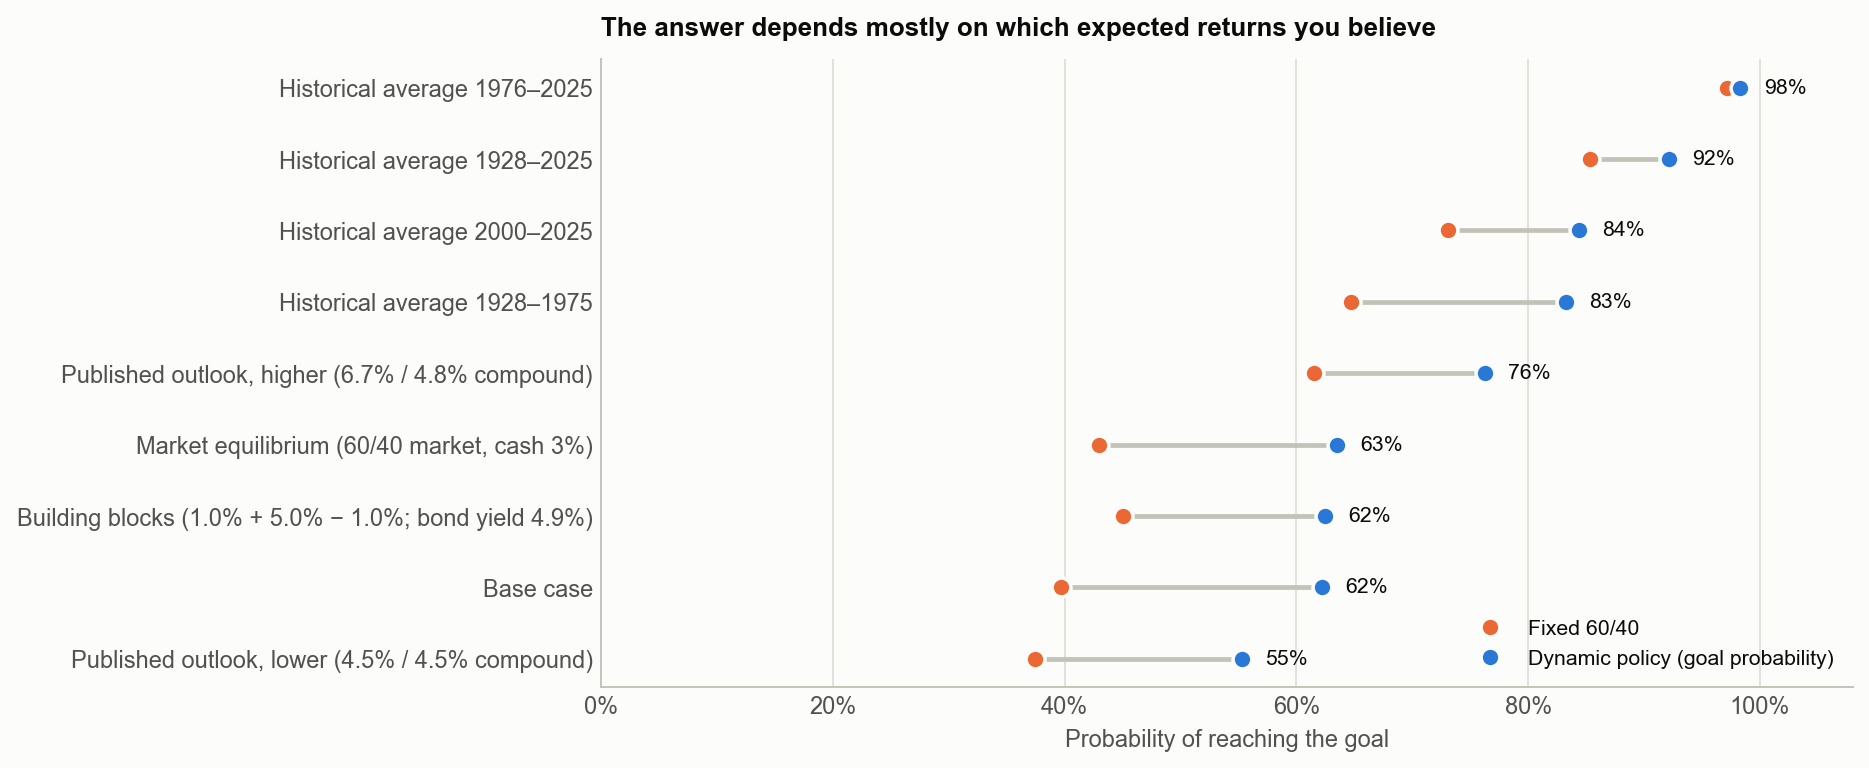
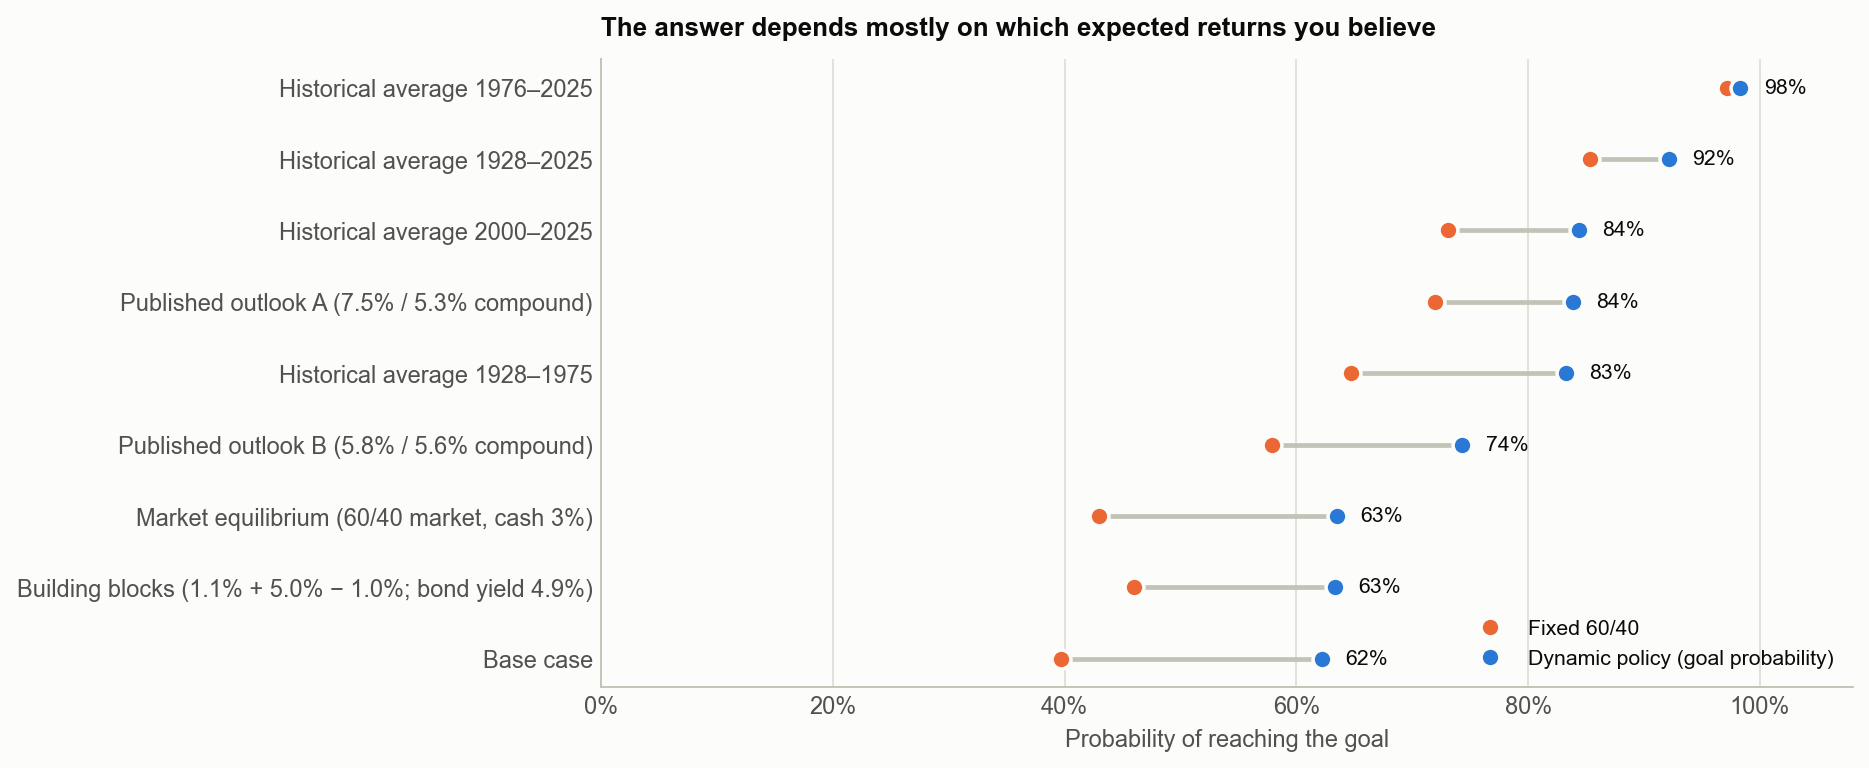
Update published-outlook and building-block inputs to current sources
Checked the three sourced assumption sets against the publishers' own
pages (read 2026-11-10) and re-ran the assumptions section.

- Published outlook A: J.P. Morgan 2027 LTCMA, US large cap 7.5%
  (was 6.7% from the previous edition). The US aggregate bond figure
  is behind a login, so the bond input is the public page's global
  aggregate figure, 5.3%.
- Published outlook B: Vanguard Capital Markets Model, 30 Sep 2026
  run, midpoints of the 10-year ranges: US stocks 5.8%, US aggregate
  bonds 5.6% (was 4.5% / 4.5%, with the bond figure a placeholder).
- Building blocks: S&P 500 dividend yield 1.1% (was 1.0%); 10-year
  Treasury yield 4.9% confirmed.

The range of success probabilities across return views moves from
55-98% to 62-98%; the base case is now the most cautious view.

diff --git a/run.py b/run.py
@@ -264,11 +264,17 @@ def assumption_sets() -> list[market.Assumptions]:
         market.historical_assumptions(history, 1928, 1975),
         market.historical_assumptions(history, 1976, 2025),
         market.historical_assumptions(history, 2000, 2025),
-        market.building_block_assumptions(0.010, 0.050, -0.010, 0.049,
-                                          label="Building blocks (1.0% + 5.0% − 1.0%; bond yield 4.9%)"),
+        # Dividend yield 1.08% (S&P 500, 10 Nov 2026) and 10-year Treasury yield 4.84–4.98%
+        # (2–10 Nov 2026) are observed; earnings growth and valuation change are judgment inputs.
+        market.building_block_assumptions(0.011, 0.050, -0.010, 0.049,
+                                          label="Building blocks (1.1% + 5.0% − 1.0%; bond yield 4.9%)"),
         market.equilibrium_assumptions(label="Market equilibrium (60/40 market, cash 3%)"),
-        market.compound_forecast_assumptions(0.067, 0.048, label="Published outlook, higher (6.7% / 4.8% compound)"),
-        market.compound_forecast_assumptions(0.045, 0.045, label="Published outlook, lower (4.5% / 4.5% compound)"),
+        # J.P. Morgan 2027 Long-Term Capital Market Assumptions (data as of Sep 2026): U.S. large cap
+        # 7.5%; the only bond figure on the public page is global aggregate, 5.3%.
+        market.compound_forecast_assumptions(0.075, 0.053, label="Published outlook A (7.5% / 5.3% compound)"),
+        # Vanguard Capital Markets Model, 30 Sep 2026 run, 10-year ranges: U.S. equities 4.8–6.8%,
+        # U.S. aggregate bonds 5.1–6.1%; midpoints used.
+        market.compound_forecast_assumptions(0.058, 0.056, label="Published outlook B (5.8% / 5.6% compound)"),
     ]
 
 

diff --git a/README.md b/README.md
@@ -53,7 +53,7 @@ Standard error on each probability: 0.15 percentage points (pp). Full table:
 
 Five findings, in order of importance:
 
-1. **The expected stock return matters more than everything else combined.** One point less (6% instead of 7%) cuts the success probability from 62% to 52%. No other single parameter moves it by more than about 3 points. Across reasonable ways of setting expected returns the answer ranges from 55% to 98%.
+1. **The expected stock return matters more than everything else combined.** One point less (6% instead of 7%) cuts the success probability from 62% to 52%. No other single parameter moves it by more than about 3 points. Across reasonable ways of setting expected returns the answer ranges from 62% to 98%.
 2. **The policy is far more robust than the probability.** A policy optimised for the base case and then run in a world with different returns loses less than 1 point against a policy re-optimised for that world. The model is reliable on *what to do*; it is only as good as the forecast on *how likely it is to work*.
 3. **A dynamic policy adds 7–10 points over the best fixed mix** for goals that are a stretch but reachable, and about 22 points over 60/40. In saving terms it is worth about $2,300 a year: reaching 75% takes $12,100 a year with the dynamic policy and $14,500 with 60/40.
 4. **The objective is a decision, not a detail.** "Maximise the chance of reaching the goal" and "maximise expected utility" produce very different policies (62% vs 38% success, but $323K vs $296K at the 10th percentile). The goal-probability policy gives up the upside to buy probability, and keeps full stock risk for anyone who falls behind.
@@ -109,18 +109,22 @@ range across return assumptions.
 | Historical average 1928–1975 | 8.3% / 2.9% | 83.2% | 64.7% | $8,100 |
 | Historical average 1976–2025 | 12.1% / 6.1% | 98.3% | 97.2% | $2,800 |
 | Historical average 2000–2025 | 8.2% / 3.8% | 84.4% | 73.1% | $8,100 |
-| Building blocks | 5.0% / 4.9% | 62.5% | 45.0% | $11,500 |
+| Building blocks | 5.1% / 4.9% | 63.3% | 46.0% | $11,400 |
 | Market equilibrium | 5.8% / 3.4% | 63.5% | 42.9% | $11,800 |
-| Published outlook, higher | 6.7% / 4.8% | 76.3% | 61.5% | $9,800 |
-| Published outlook, lower | 4.5% / 4.5% | 55.3% | 37.5% | $12,400 |
+| Published outlook A | 7.5% / 5.3% | 83.9% | 72.0% | $8,600 |
+| Published outlook B | 5.8% / 5.6% | 74.3% | 57.9% | $10,100 |
 
 Full table with arithmetic means and volatilities:
 [results/assumption_sets.md](results/assumption_sets.md).
 
 - **Historical averages** depend heavily on the window: 83% to 98% for the same plan. They are also nominal and reflect one country's unusually good century.
-- **Building blocks**: stocks = dividend yield + earnings growth + valuation change (1.0% + 5.0% − 1.0%); bonds = current 10-year Treasury yield (about 4.9% in early November 2026). These inputs are illustrative; change them in `run.py`.
+- **Building blocks**: stocks = dividend yield + earnings growth + valuation change (1.1% + 5.0% − 1.0%); bonds = current 10-year Treasury yield (4.9%). The dividend yield (1.08% on 10 November 2026, [multpl.com](https://www.multpl.com/s-p-500-dividend-yield)) and the Treasury yield (4.84–4.98% over 2–10 November 2026, [US Treasury par yield curve](https://home.treasury.gov/resource-center/data-chart-center/interest-rates/TextView?type=daily_treasury_yield_curve&field_tdr_date_value_month=202611)) are observed. Earnings growth and valuation change are my own judgment inputs; change them in `run.py`.
 - **Market equilibrium**: the returns that make a 60/40 market portfolio optimal for an investor with risk aversion 2.5 (the starting point of Black–Litterman), over a 3% cash rate.
-- **Published outlooks**: compound returns of the size large asset managers currently publish — about 6.7% for US large-cap stocks and 4.8% for US aggregate bonds at the higher end ([J.P. Morgan Long-Term Capital Market Assumptions, 2026 edition](https://www.jpmorgan.com/insights/markets-and-economy/markets/2026-long-term-capital-market-assumptions)), and about 4.5% for US stocks at the lower end (the middle of the 3.5–5.5% ten-year range in [Vanguard's 2026 outlook](https://corporate.vanguard.com/content/corporatesite/us/en/corp/vemo/vemo-return-forecasts.html); the bond figure of 4.5% is my placeholder). I took these from public summaries; check the originals before relying on them.
+- **Published outlooks**: compound returns taken from two asset managers' own pages, read on 10 November 2026.
+  - *A*: [J.P. Morgan's 2027 Long-Term Capital Market Assumptions](https://am.jpmorgan.com/us/en/asset-management/adv/insights/portfolio-insights/ltcma/) (data as of September 2026, 10–15 year horizon) put US large-cap stocks at 7.5%. The US aggregate bond figure sits in a matrix behind a login, so the bond input is the 5.3% the public page gives for *global* aggregate bonds. The page does not say whether 7.5% is compound or arithmetic; I treat it as compound.
+  - *B*: the [Vanguard Capital Markets Model](https://corporate.vanguard.com/content/corporatesite/us/en/corp/vemo/vemo-return-forecasts.html) run of 30 September 2026 gives 10-year ranges of 4.8–6.8% for US stocks and 5.1–6.1% for US aggregate bonds (geometric returns); I use the midpoints, 5.8% and 5.6%.
+  - Both are paired with the base-case volatilities and correlation, not the publishers' own.
+- **The base case sits at the cautious end**, mainly because its 3% bond return is well below today's yields. Outlook B has the same compound stock return as the base case (5.8%) and bonds at 5.6% instead of 2.9%; that alone lifts the dynamic policy from 62% to 74% and 60/40 from 40% to 58%.
 
 One trap worth naming: forecasts are usually quoted as **compound** returns, while
 simulations need **arithmetic** means. At 16% volatility the two differ by 1.2

diff --git a/results/assumption_sets.md b/results/assumption_sets.md
@@ -7,9 +7,9 @@
 | Historical average 1928–1975 | 10.5% / 23% | 3.0% / 4% | 8.3% / 2.9% | 83.2% | 64.7% | $8,086 | $11,777 |
 | Historical average 1976–2025 | 13.2% / 16% | 6.6% / 10% | 12.1% / 6.1% | 98.3% | 97.2% | $2,812 | $5,098 |
 | Historical average 2000–2025 | 9.6% / 18% | 4.2% / 9% | 8.2% / 3.8% | 84.4% | 73.1% | $8,145 | $10,312 |
-| Building blocks (1.0% + 5.0% − 1.0%; bond yield 4.9%) | 6.2% / 16% | 5.0% / 5% | 5.0% / 4.9% | 62.5% | 45.0% | $11,543 | $13,770 |
+| Building blocks (1.1% + 5.0% − 1.0%; bond yield 4.9%) | 6.3% / 16% | 5.0% / 5% | 5.1% / 4.9% | 63.3% | 46.0% | $11,426 | $13,652 |
 | Market equilibrium (60/40 market, cash 3%) | 7.0% / 16% | 3.5% / 5% | 5.8% / 3.4% | 63.5% | 42.9% | $11,836 | $14,062 |
-| Published outlook, higher (6.7% / 4.8% compound) | 7.9% / 16% | 4.9% / 5% | 6.7% / 4.8% | 76.3% | 61.5% | $9,844 | $11,777 |
-| Published outlook, lower (4.5% / 4.5% compound) | 5.7% / 16% | 4.6% / 5% | 4.5% / 4.5% | 55.3% | 37.5% | $12,422 | $14,766 |
+| Published outlook A (7.5% / 5.3% compound) | 8.7% / 16% | 5.4% / 5% | 7.5% / 5.3% | 83.9% | 72.0% | $8,555 | $10,430 |
+| Published outlook B (5.8% / 5.6% compound) | 7.0% / 16% | 5.7% / 5% | 5.8% / 5.6% | 74.3% | 57.9% | $10,078 | $12,188 |
 
 Success = probability of reaching the goal with $10,000 saved a year. Saving for 75% = yearly saving at which the success probability reaches 75%. Means are arithmetic; historical rows use that window's own volatilities and correlation, the others use the base-case ones.
